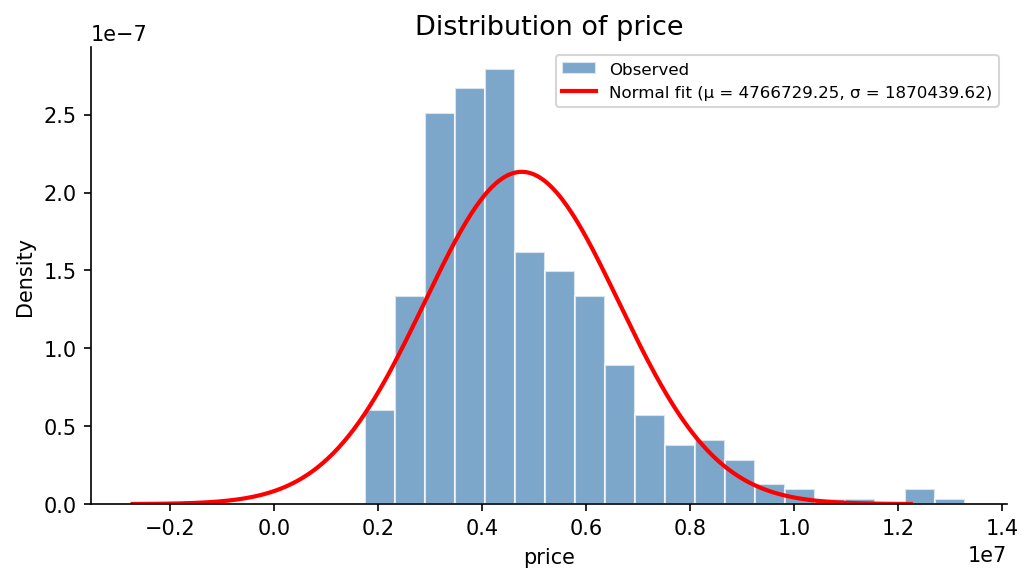
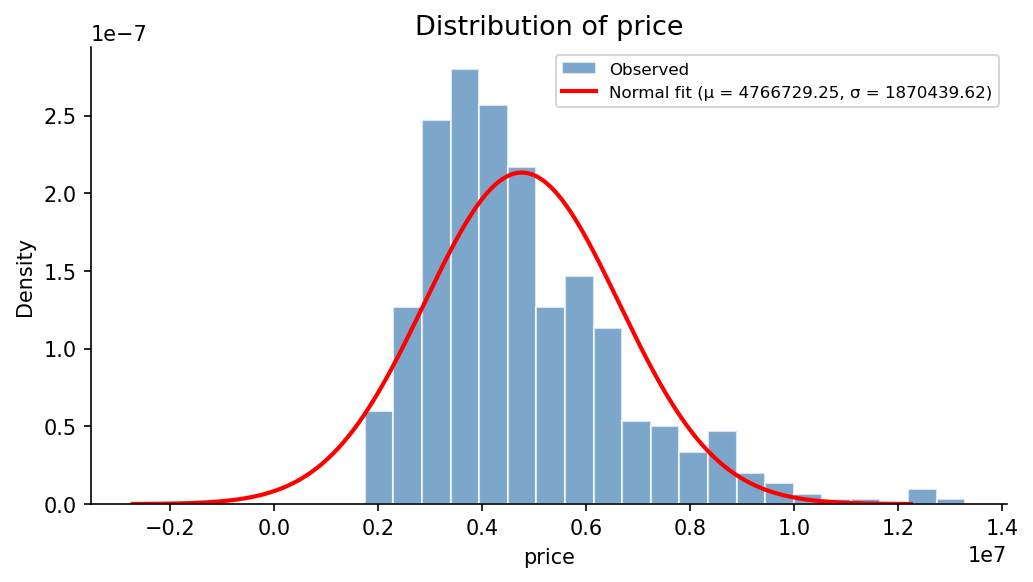
added dataset-specific binning for histograms

Changed region(s): [[0.3717, 0.0928, 0.8054, 0.866], [0.031, 0.1856, 0.0929, 0.2165], [0.062, 0.4639, 0.0929, 0.4948]]

diff --git a/src/visualiser.py b/src/visualiser.py
@@ -20,23 +20,45 @@ def _save(fig, output_path):
     plt.close(fig)
 
 
-def plot_exam_score_distribution(df, target, output_path):
+def plot_exam_score_distribution(df, target, output_path, bin_strategy="fd"):
     """
     Histogram of the target variable with a Normal distribution overlay.
 
     Parameters
     ----------
-    df          : DataFrame containing the target column.
-    target      : Name of the target/response variable column.
-    output_path : File path to save the figure.
+    df           : DataFrame containing the target column.
+    target       : Name of the target/response variable column.
+    output_path  : File path to save the figure.
+    bin_strategy : How to compute histogram bins:
+                   "unit"    — width-1 integer bins (0–100); exposes grade-boundary spikes.
+                   "integer" — half-integer edges centred on each discrete integer value.
+                   "fd"      — Freedman-Diaconis rule: bin_width = 2·IQR·n^(-1/3);
+                               robust to outliers in skewed continuous distributions.
     """
-    mu  = df[target].mean()
-    sig = df[target].std()
+    data = df[target].dropna()
+
+    if bin_strategy == "unit":
+        lo, hi = int(data.min()), int(data.max())
+        bins = range(lo, hi + 2)          # +2 so the last bar is fully drawn
+
+    elif bin_strategy == "integer":
+        bins = np.arange(data.min() - 0.5, data.max() + 1.5, 1.0)
+
+    else:  # "fd" — Freedman-Diaconis
+        iqr = np.percentile(data, 75) - np.percentile(data, 25)
+        if iqr == 0:
+            bins = 20
+        else:
+            bin_width = 2 * iqr * len(data) ** (-1 / 3)
+            bins = max(5, int(np.ceil((data.max() - data.min()) / bin_width)))
+
+    mu  = data.mean()
+    sig = data.std()
     x   = np.linspace(mu - 4 * sig, mu + 4 * sig, 300)
     pdf = (1 / (sig * np.sqrt(2 * np.pi))) * np.exp(-0.5 * ((x - mu) / sig) ** 2)
 
     fig, ax = subplots(figsize=(7, 4))
-    ax.hist(df[target], bins=20, density=True,
+    ax.hist(data, bins=bins, density=True,
             color=_COL_A, alpha=0.7, edgecolor="white", label="Observed")
     ax.plot(x, pdf, "r-", linewidth=2,
             label=f"Normal fit (μ = {mu:.2f}, σ = {sig:.2f})")

diff --git a/main.py b/main.py
@@ -182,7 +182,8 @@ def main(models=None, datasets=None):
             sys.stdout = old_stdout
 
             # EDA plots
-            plot_exam_score_distribution(df_clean, cfg['target'], out_dir / "score_distribution.png")
+            plot_exam_score_distribution(df_clean, cfg['target'], out_dir / "score_distribution.png",
+                                         bin_strategy=cfg.get('bin_strategy', 'fd'))
             print(f"  [Plot saved]  score_distribution.png", file=f)
             plot_correlation_with_target(df_imp, df_drop, cfg['target'], out_dir / "correlation.png",
                                          single_track=single_track)

diff --git a/src/config.py b/src/config.py
@@ -17,6 +17,7 @@ RESULTS_DIR.mkdir(exist_ok=True)
 DATASET_CONFIGS = {
     "StudentPerformanceFactors.csv": {
         "target": "Exam_Score",
+        "bin_strategy": "unit",
         "limits": {
             # Target Limit
             "Exam_Score": (100, "Score > 100"),
@@ -31,6 +32,7 @@ DATASET_CONFIGS = {
     },
     "Housing.csv": {
         "target": "price",
+        "bin_strategy": "fd",
         "limits": {
             "bedrooms": (10, "Bedrooms > 10"),
             "bathrooms": (10, "Bathrooms > 10"),
@@ -40,6 +42,7 @@ DATASET_CONFIGS = {
     },
     "winequality-red.csv": {
         "target": "quality",
+        "bin_strategy": "integer",
         "limits": {
             # Target: Score is 0-10
             "quality": (10, "Quality Score > 10"),